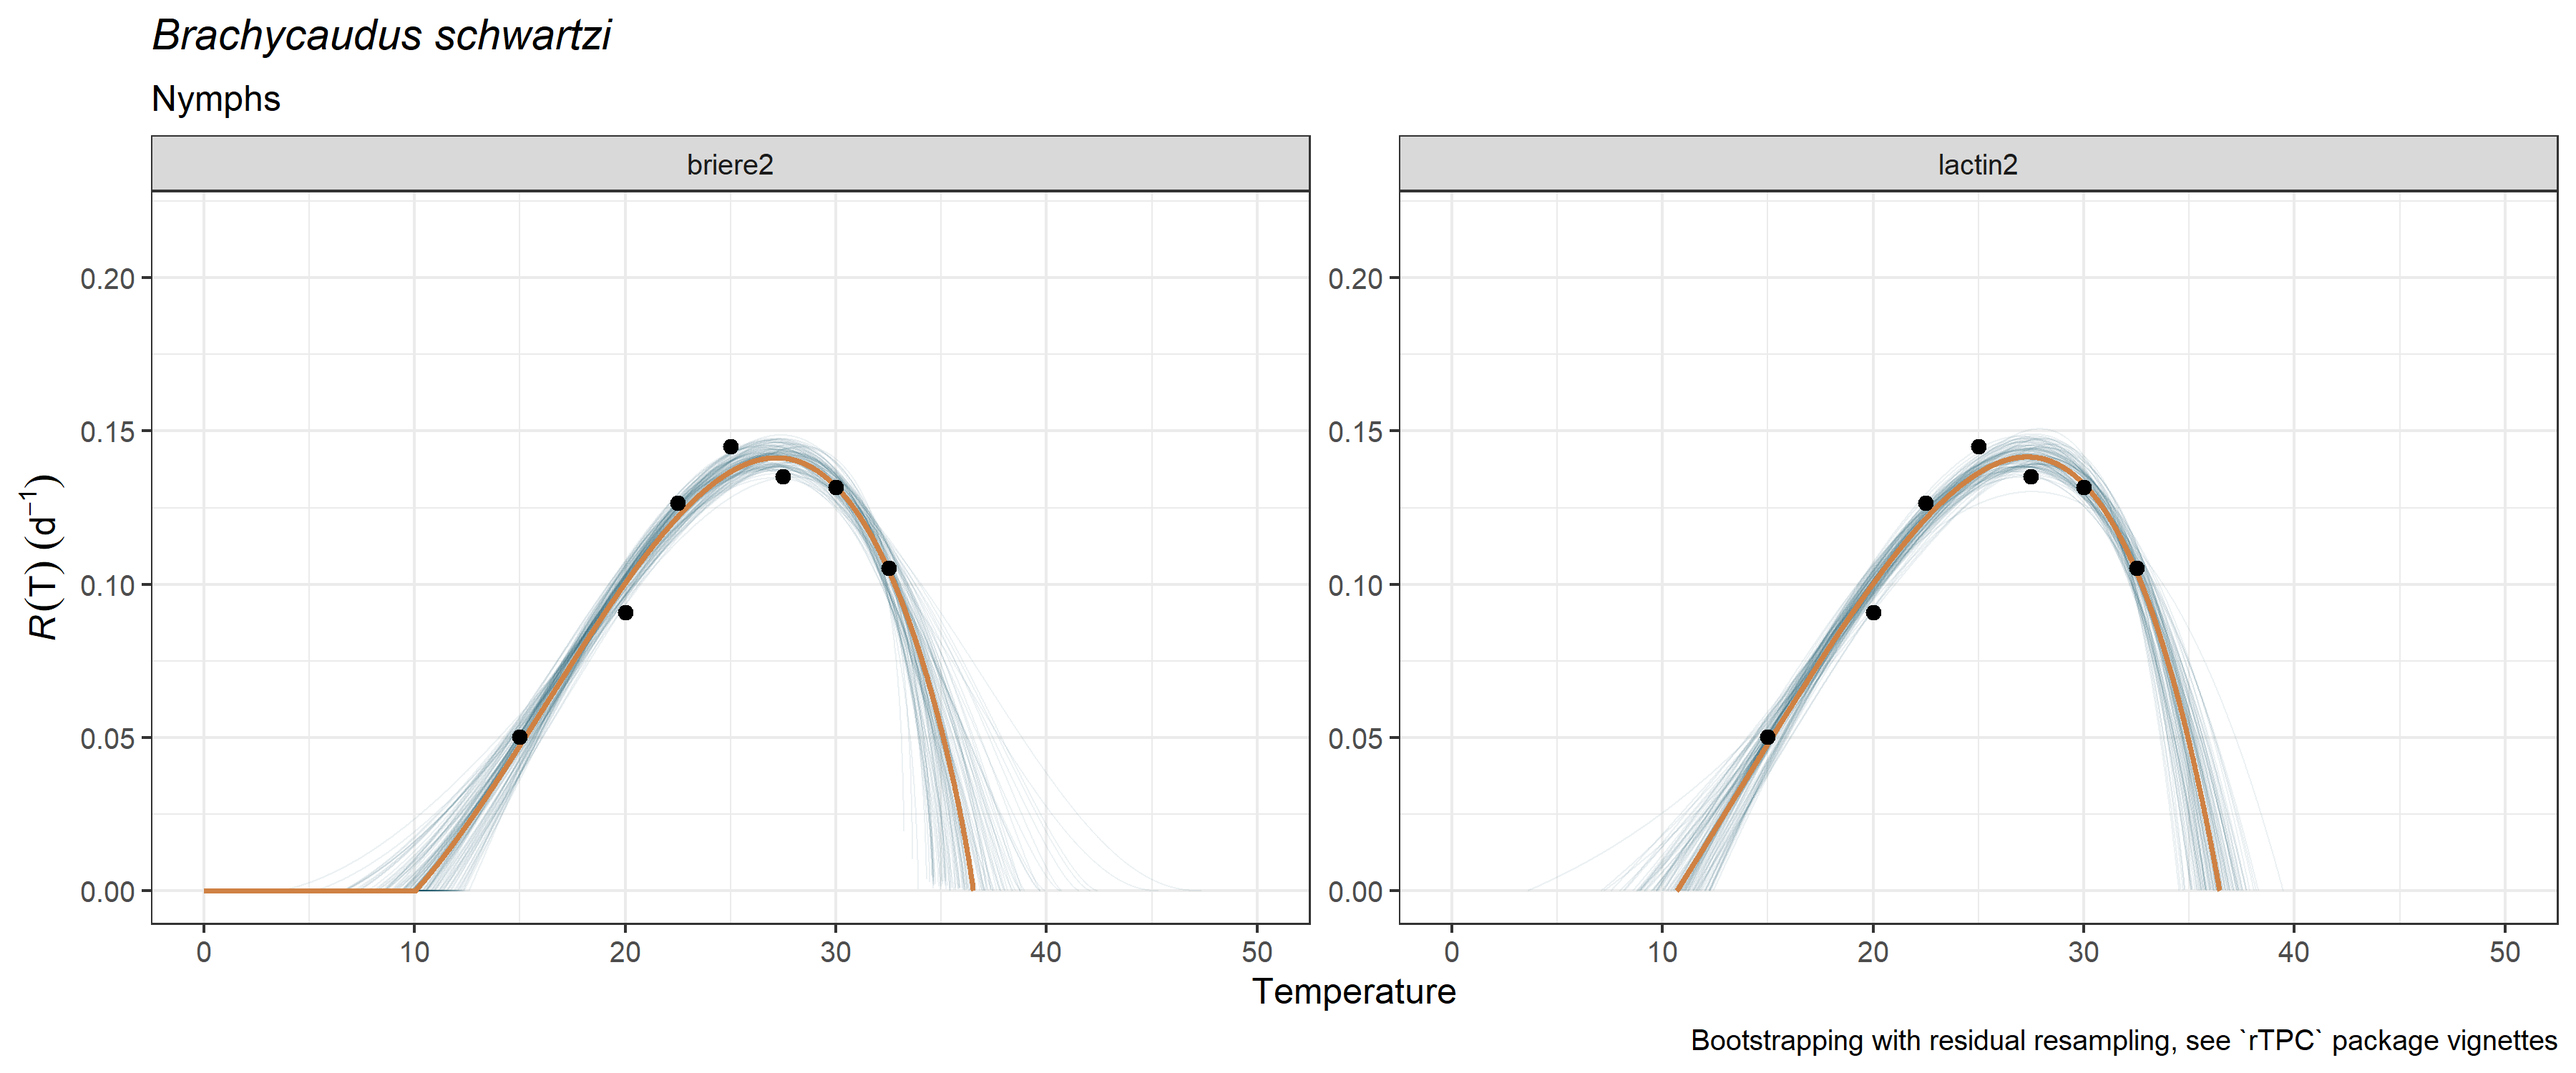
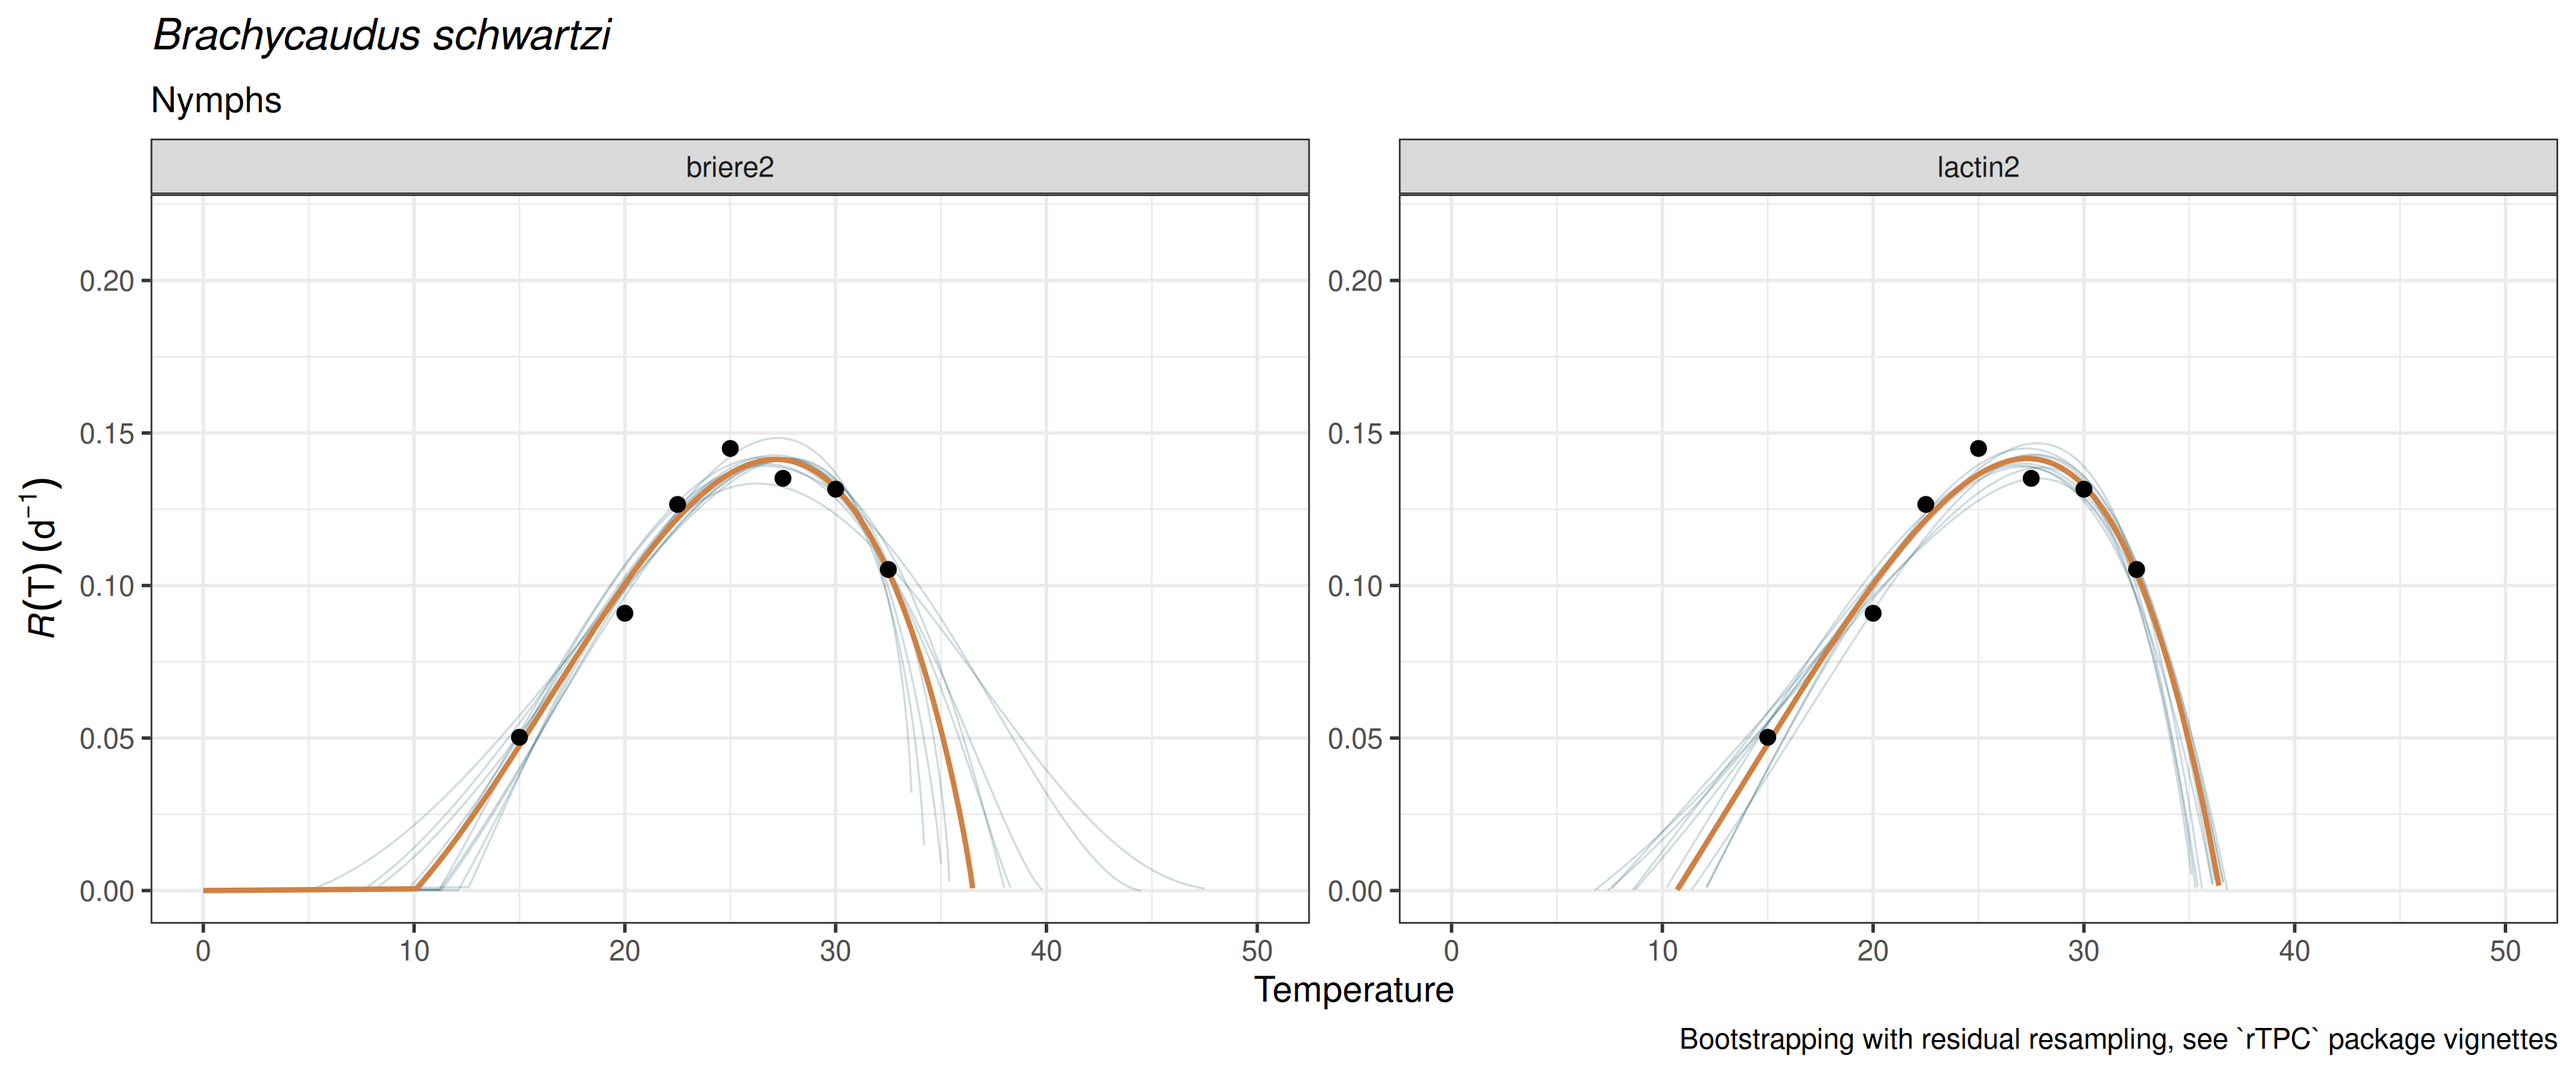
revise readme

diff --git a/README.md b/README.md
@@ -83,13 +83,13 @@ using `plot_devmodels()`.
 ``` r
 library("mappestRisk")
 data("aphid") 
-fitted_tpcs_aphid <- fit_devmodels(temp = aphid$temperature,  
-                                   dev_rate = aphid$rate_value, 
-                                   model_name = c("briere2", "lactin2", "ratkowsky"))
+fitted_tpcs <- fit_devmodels(temp = aphid$temperature,  
+                             dev_rate = aphid$rate_value, 
+                             model_name = c("briere2", "lactin2", "ratkowsky"))
 
 plot_devmodels(temp = aphid$temperature,
                dev_rate = aphid$rate_value,
-               fitted_parameters = fitted_tpcs_aphid,
+               fitted_parameters = fitted_tpcs,
                species = "Brachycaudus schwartzi",
                life_stage = "Nymphs")
 ```
@@ -110,20 +110,20 @@ plotted using `plot_uncertainties()`. A detailed explanation is given in
 the [TPCs model fitting](articles/tpcs-simulate-bootstrap.html) article.
 
 ``` r
-preds_boots_aphid <- predict_curves(temp = aphid$temperature,          
-                                   dev_rate = aphid$rate_value,
-                                   fitted_parameters = fitted_tpcs_aphid,
-                                   model_name_2boot = c("briere2", "lactin2"),
-                                   propagate_uncertainty = TRUE,
-                                   n_boots_samples = 100)
+preds_boots <- predict_curves(temp = aphid$temperature,          
+                              dev_rate = aphid$rate_value,
+                              fitted_parameters = fitted_tpcs,
+                              model_name_2boot = c("briere2", "lactin2"),
+                              propagate_uncertainty = TRUE,
+                              n_boots_samples = 10)
 #> 
-#> ADVISE: the simulation of new bootstrapped curves takes some time. Await patiently or reduce your `n_boots_samples`
+#> Note: the simulation of new bootstrapped curves takes some time. Await patiently or reduce your `n_boots_samples`
 #> 
-#>  Bootstrapping simulations completed for briere2 
+#>  Bootstrapping simulations completed for briere2
 #> 
 #>  Bootstrapping simulations completed for lactin2
 
-plot_uncertainties(bootstrap_uncertainties_tpcs = preds_boots_aphid,
+plot_uncertainties(bootstrap_tpcs = preds_boots,
                    temp = aphid$temperature,
                    dev_rate = aphid$rate_value,
                    species = "Brachycaudus schwartzi",
@@ -143,9 +143,9 @@ criteria, the `thermal_suitability_bounds()` function calculates these
 values:
 
 ``` r
-boundaries_aphid <- therm_suit_bounds(preds_tbl = preds_boots_aphid,
-                                      model_name = "briere2",        
-                                      suitability_threshold = 80) 
+boundaries <- therm_suit_bounds(preds_tbl = preds_boots,
+                                model_name = "briere2",        
+                                suitability_threshold = 80) 
 ```
 
 ### 3. Climatic data extraction and projection
@@ -158,24 +158,10 @@ user-defined region or area, and then calculates the number of months
 per year with highly suitable temperatures for pest development.
 
 ``` r
-risk_rast <- map_risk(t_vals = boundaries_aphid, 
-                      path = tempdir(), # directory to download data 
-                      region = "Réunion",    
-                      plot = TRUE,
-                      interactive = FALSE,
-                      verbose = TRUE)
-#> 
-#> (Down)loading countries map...
-#> 
-#> (Down)loading temperature rasters...
-#> 
-#> Cropping temperature rasters to region...
-#> 
-#> Masking temperature rasters with region...
-#> 
-#> Computing summary layers...
-#> 
-#> Plotting map...
+risk_rast <- map_risk(t_vals = boundaries, 
+                      region = "Réunion",   
+                      path = tempdir() # directory to download climate data 
+                      )
 ```
 
 <img src="man/figures/README-unnamed-chunk-7-1.png" width="100%" />
